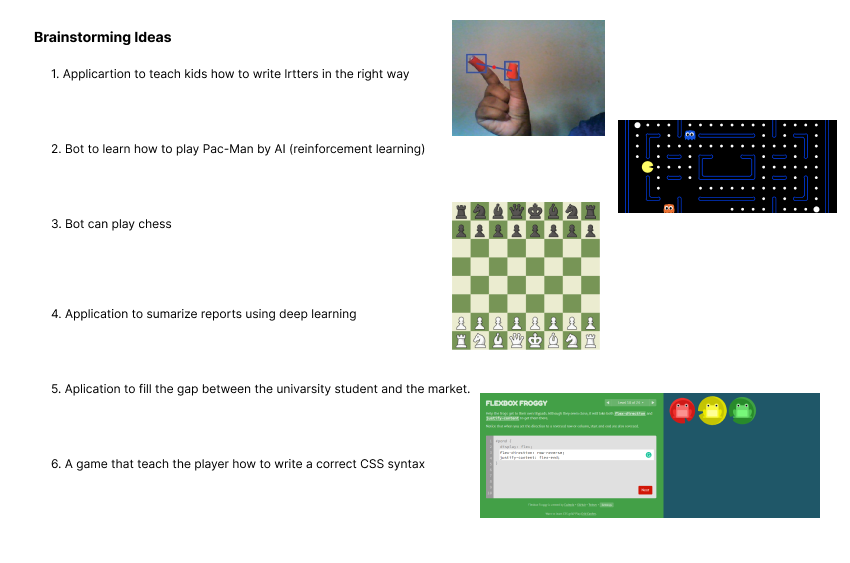
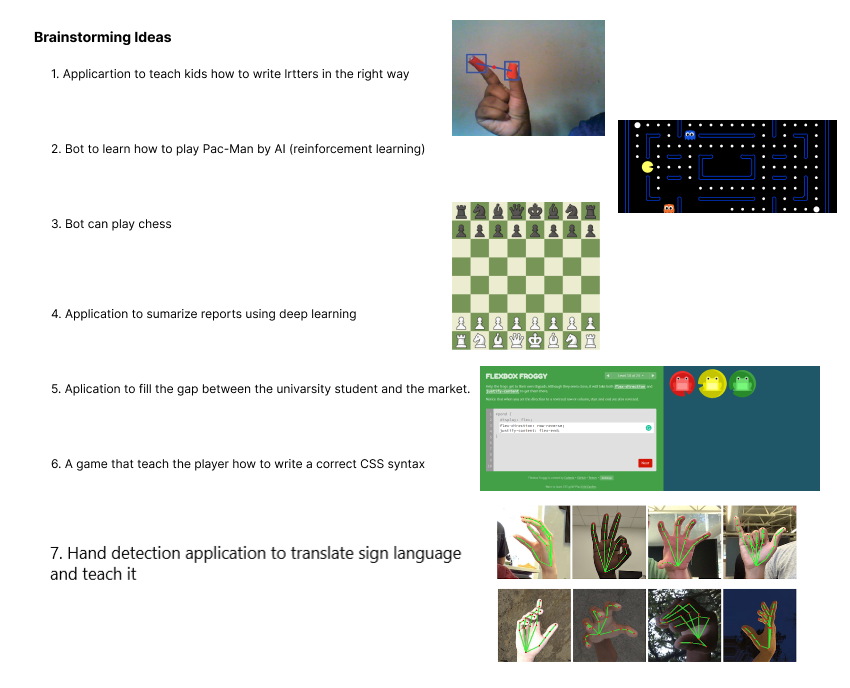
add sign language project

diff --git a/Pitch-Ideas.md b/Pitch-Ideas.md
@@ -7,13 +7,33 @@
 
 # Ideas Pitch
 
-## main idea 1: Future Alphabet (selected)
+## main idea 1: Sign language education application with translation feature.
 
-Teach kids how to write letters in the proper format using a virtual mouse (camera that detects the user's hand gestures using computer vision and artificial intelligence), we can use the following libraries:
+A computet application (GUI) to teach the people with special need how to use sign language and practice it as many times as needed, this application could work as translator also. The detection prossecs done with the help of camera that detects the user's hand gestures using computer vision and artificial intelligence. We can use the following packages:
+
+    OpenCV
+    mediapipe
+    tkinter
+    gTTS
+
+<br>
+
+### Pain points:
+The special needs community is growing due to many factors; they have already exceeded 400 million worldwide. And to help them blend and contribute to their societies, "Sign Language" is their tool for direct communication with others. The dilemma is that only 1% of the world population has acquired the language, and can reach those challenged individuals. So, with tech field advancement there are many attempts to come up with solutions to overcome the communication issue and to help more people learn the language and reach to the special community. The project at hand presents one of those attempts.
+
+<br>
+
+<br>
+
+## main idea 2: Future Alphabet (selected)
+
+An application for VR glasses to teach kids how to write letters in the proper format using a virtual mouse (camera that detects the user's hand gestures using computer vision and artificial intelligence), we can use the following libraries:
 
     OpenCV: for image processing and drawing
     mediapipe: for hand tracking 
     autopy: for controlling the mouse movement and click 
+
+<br>
 
 ### Pain points:
 In our project, we want to solve the main problem that
@@ -30,7 +50,7 @@ It is proven that writing in the air helps the kid to memorize the letter and th
 
 <br>
 
-## Main idea  2: Pac-Man
+## Main idea  3: Pac-Man
 
 Make an AI bot that can learn how to play the game (Pac-Man) using computer vision and reinforcement learning (e.x OpenAI, gym, universe). This bot must reach a new record. To make it more challenging we suggest adding a time limit to the game.
 For data analysis, we may compare the number of iterations required by the AI to win the game with the map size and enemy count. We can also see how long it takes the AI to get a new record.
